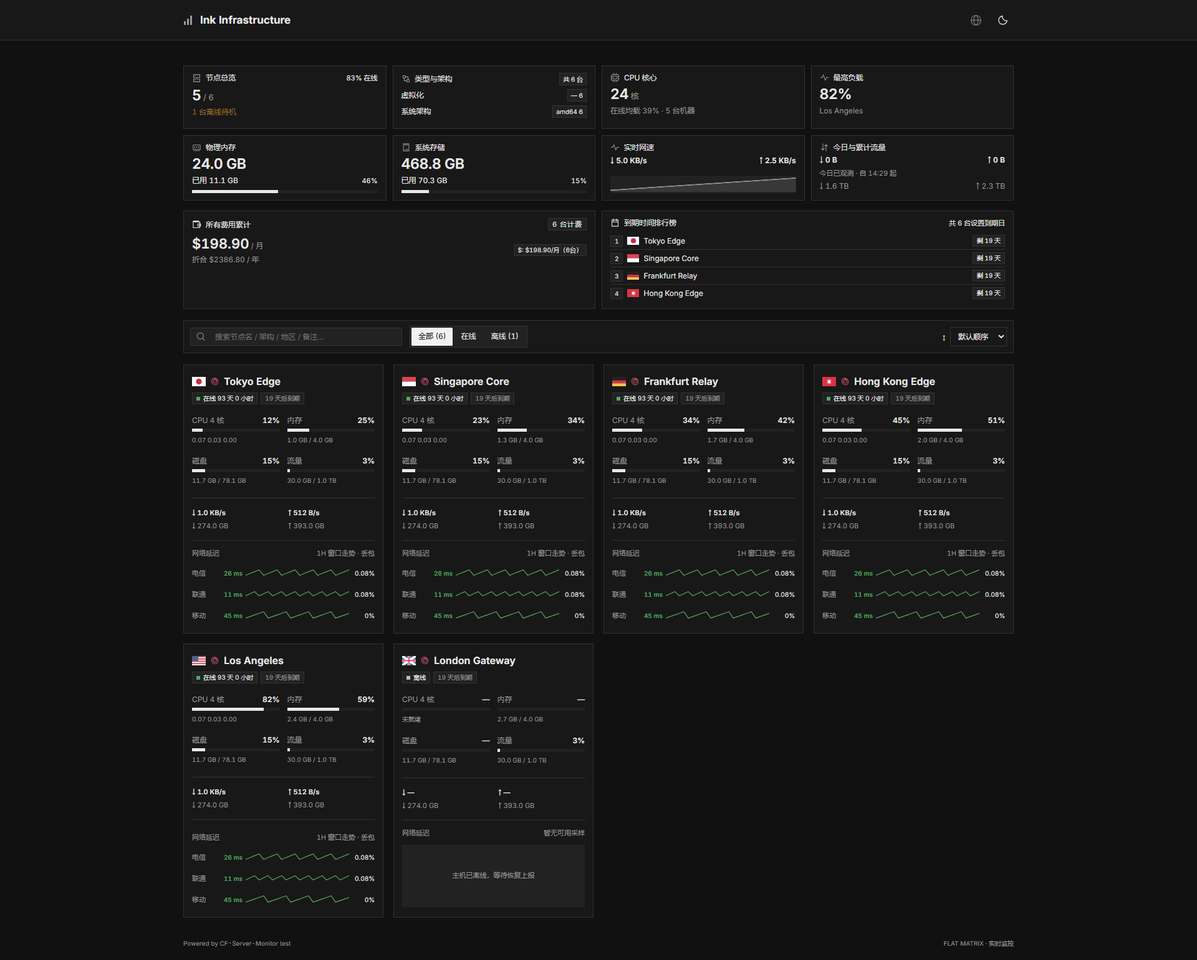
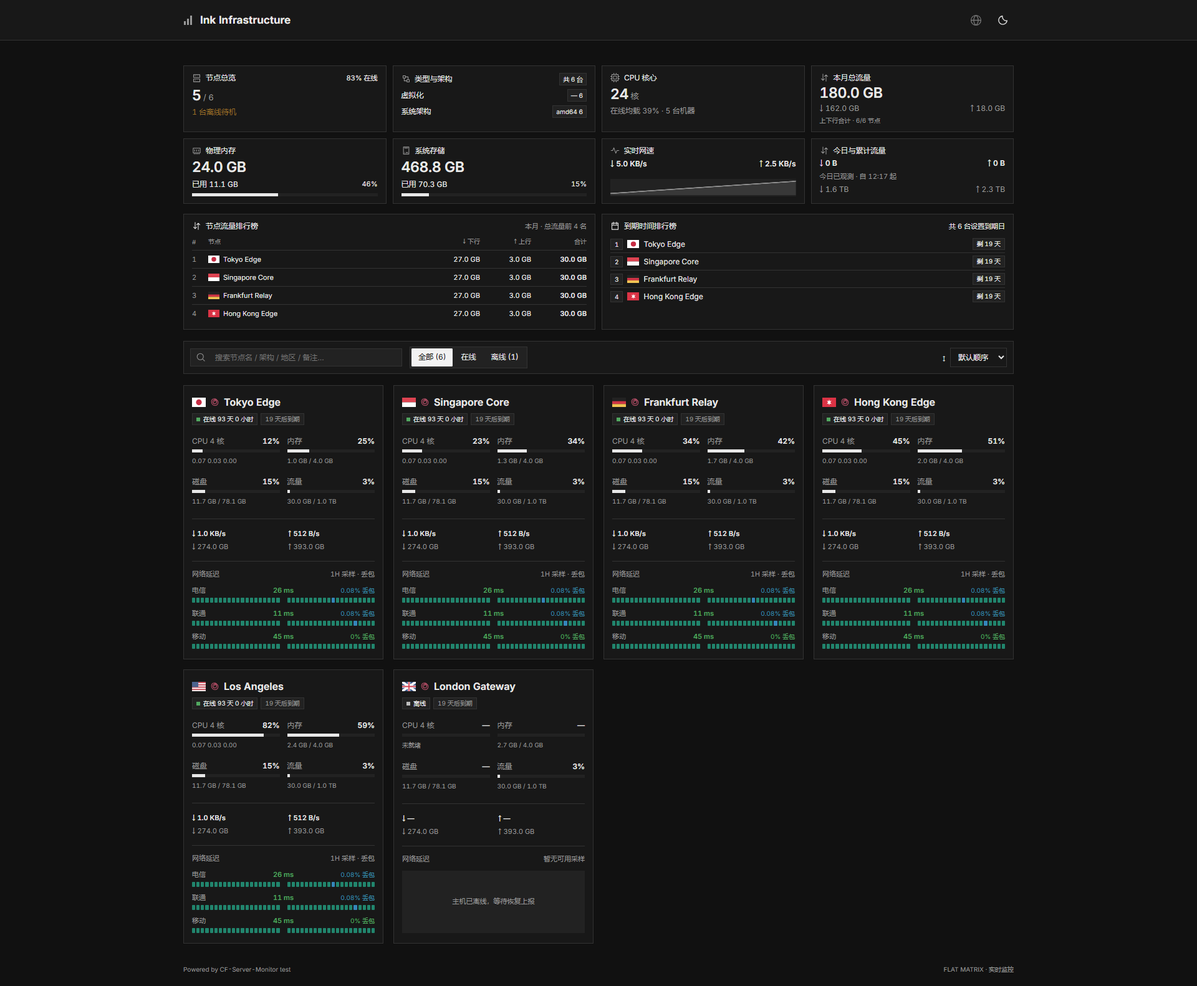
Add monthly traffic ranking and paired probe sample blocks

diff --git a/cfsm/src/matrix/MatrixDashboard.vue b/cfsm/src/matrix/MatrixDashboard.vue
@@ -3,7 +3,7 @@ import { computed, ref, watch } from 'vue'
 import { nodes, country, now, region } from '../composables/useView.js'
 import { state } from '../composables/useMonitor.js'
 import { themeOptions } from '../composables/useTheme.js'
-import { running, memory, size, percentage, ratio, virtualization, monthlyPrice } from './data.js'
+import { running, memory, size, percentage, ratio, virtualization, monthlyTransfers } from './data.js'
 import { dailyTraffic } from '../utils/dailyTraffic.js'
 import { daysLeft } from '../utils/display.js'
 import { collapsed } from './useMatrixUI.js'
@@ -15,17 +15,10 @@ const search = ref(''), status = ref('all'), order = ref('default')
 const onlineNodes = computed(()=>nodes.value.filter(item=>running(item.server,now.value)))
 const sum = (field, active=false) => (active ? onlineNodes.value : nodes.value).reduce((total,item)=>total+(Number(item.server[field])||0),0)
 const types = field => Object.entries(nodes.value.reduce((result,item)=>{const key=field(item.server);result[key]=(result[key]||0)+1;return result},{}))
-const highest = computed(()=>onlineNodes.value.reduce((best,item)=>Number(item.server.cpu)>Number(best?.server.cpu||-1)?item:best,null))
 const transfer = computed(()=>sum('net_in_speed',true)), upload = computed(()=>sum('net_out_speed',true))
 const speeds = ref([]), uploads = ref([])
 watch(()=>[transfer.value,upload.value],([rx,tx])=>{speeds.value=[...speeds.value,rx].slice(-48);uploads.value=[...uploads.value,tx].slice(-48)},{immediate:true})
-const fees = computed(()=>{
-  const grouped={}
-  for(const item of nodes.value) { if(item.site.sysConfig.show_price===false || themeOptions.value.show_price===false)continue; const price=monthlyPrice(item.server); if(price===null)continue;const key=item.server.currency||'未标币种';grouped[key]??={value:0,count:0};grouped[key].value+=price;grouped[key].count++ }
-  return Object.entries(grouped).map(([currency,item])=>({currency,...item}))
-})
-const primaryFee = computed(()=>fees.value.find(item=>item.currency==='CNY'||item.currency==='¥')||fees.value[0])
-const feeSymbol = currency => ({CNY:'¥',USD:'US$',EUR:'€',GBP:'£',HKD:'HK$'})[currency] || currency
+const transfers = computed(()=>monthlyTransfers(nodes.value))
 const expirations = computed(()=>nodes.value.filter(item=>item.site.sysConfig.show_expire!==false && daysLeft(item.server.expire_date,now.value)!==null).sort((a,b)=>daysLeft(a.server.expire_date,now.value)-daysLeft(b.server.expire_date,now.value)))
 const filtered = computed(()=>{
   const needle=search.value.trim().toLowerCase()
@@ -41,12 +34,12 @@ const todayCaption = computed(()=>today.value.partial ? (Number.isFinite(today.v
  <article class="box overview"><div class="spread"><label><Icon name="server"/>节点总览</label><small>{{ percentage(nodes.length ? onlineNodes.length/nodes.length*100 : null) }} 在线</small></div><strong>{{ onlineNodes.length }}<small> / {{ nodes.length }}</small></strong><p :class="nodes.length-onlineNodes.length?'warn':'muted'">{{ nodes.length-onlineNodes.length ? `${nodes.length-onlineNodes.length} 台离线待机`:'全部在线 · 实时守护' }}</p></article>
  <article class="box overview architectures"><div class="spread"><label><Icon name="network"/>类型与架构</label><small class="chip">共 {{ nodes.length }} 台</small></div><div class="spread"><span>虚拟化</span><span><b v-for="[key,value] in types(virtualization)" :key="key" class="chip">{{ key }} {{ value }}</b></span></div><div class="spread"><span>系统架构</span><span><b v-for="[key,value] in types(s=>s.arch||'未知')" :key="key" class="chip">{{ key }} {{ value }}</b></span></div></article>
  <article class="box overview"><label><Icon name="cpu"/>CPU 核心</label><strong>{{ sum('cpu_cores') }}<small> 核</small></strong><p>在线均载 {{ percentage(onlineNodes.length?sum('cpu',true)/onlineNodes.length:null) }} · {{ onlineNodes.length }} 台机器</p></article>
- <article class="box overview"><label><Icon name="pulse"/>最高负载</label><strong>{{ percentage(highest?.server.cpu) }}</strong><p>{{ highest?.server.name || '暂无在线节点' }}</p></article>
+ <article class="box overview month-transfer"><label><Icon name="traffic"/>本月总流量</label><strong>{{ size(transfers.total) }}</strong><div class="spread muted"><span>↓ {{ transfers.count?size(transfers.rx):'—' }}</span><span>↑ {{ transfers.count?size(transfers.tx):'—' }}</span></div><small class="muted">上下行合计 · {{ transfers.count }}/{{ nodes.length }} 节点</small></article>
  <article class="box overview"><label><Icon name="memory"/>物理内存</label><strong>{{ memory(sum('ram_total')) }}</strong><div class="spread"><span>已用 {{ memory(sum('ram_used')) }}</span><small>{{ percentage(ratio(sum('ram_used'),sum('ram_total'))) }}</small></div><div class="track"><i :style="{width:`${ratio(sum('ram_used'),sum('ram_total'))||0}%`}"/></div></article>
  <article class="box overview"><label><Icon name="disk"/>系统存储</label><strong>{{ memory(sum('disk_total')) }}</strong><div class="spread"><span>已用 {{ memory(sum('disk_used')) }}</span><small>{{ percentage(ratio(sum('disk_used'),sum('disk_total'))) }}</small></div><div class="track"><i :style="{width:`${ratio(sum('disk_used'),sum('disk_total'))||0}%`}"/></div></article>
  <article class="box overview overview-speed"><label><Icon name="pulse"/>实时网速</label><div class="spread"><b>↓ {{ size(transfer) }}/s</b><b>↑ {{ size(upload) }}/s</b></div><div class="speed-sparks"><Sparkline :values="speeds" fill/><Sparkline :values="uploads" color="#888"/></div></article>
  <article class="box overview overview-traffic"><label :title="todayCaption"><Icon name="traffic"/>今日与累计流量</label><div class="spread"><b>↓ {{ today.rx }}</b><b>↑ {{ today.tx }}</b></div><p class="muted" :title="todayCaption">{{ todayCaption }}</p><div class="spread muted"><span>↓ {{ size(sum('net_rx')) }}</span><span>↑ {{ size(sum('net_tx')) }}</span></div></article>
 </section>
-<section class="finance-grid"><article class="box fees"><div class="section-heading spread"><label><Icon name="wallet"/>所有费用累计</label><small class="chip">{{ fees.reduce((sum,item)=>sum+item.count,0) }} 台计费</small></div><div class="fee-body"><div><strong>{{ primaryFee ? `${feeSymbol(primaryFee.currency)}${primaryFee.value.toFixed(2)}` : '—' }}<small> / 月</small></strong><p>{{ primaryFee ? `折合 ${feeSymbol(primaryFee.currency)}${(primaryFee.value*12).toFixed(2)} / 年` : '暂无可用计费数据' }}</p></div><div class="fee-currencies"><span v-for="item in fees" :key="item.currency" class="chip">{{ item.currency }}: {{ feeSymbol(item.currency) }}{{ item.value.toFixed(2) }}/月（{{ item.count }}台）</span></div></div><small v-if="fees.length>1" class="muted">按币种分别统计</small></article><article class="box expiry"><div class="section-heading spread"><label><Icon name="calendar"/>到期时间排行榜</label><small>共 {{ expirations.length }} 台设置到期日</small></div><RouterLink v-for="(item,index) in expirations.slice(0,4)" :key="item.server.id" :to="{path:`/server/${item.server.id}`,query:{site:item.siteIndex}}"><span><b class="chip">{{ index+1 }}</b><img v-if="region(item.server.region)" class="flag" :src="`${item.site.base}/flags/${region(item.server.region).toLowerCase()}.svg`" alt="">{{ item.server.name }}</span><small class="chip">剩 {{ daysLeft(item.server.expire_date,now) }} 天</small></RouterLink><p v-if="!expirations.length" class="muted">暂无设置到期日的节点</p></article></section>
+<section class="finance-grid"><article class="box traffic-ranking"><div class="section-heading spread"><label><Icon name="traffic"/>节点流量排行榜</label><small class="muted">本月 · 总流量前 4 名</small></div><div class="traffic-table-head"><span>#</span><span>节点</span><span>↓ 下行</span><span>↑ 上行</span><span>合计</span></div><RouterLink v-for="(item,index) in transfers.ranked.slice(0,4)" :key="`${item.siteIndex}:${item.server.id}`" class="traffic-rank-row" :to="{path:`/server/${item.server.id}`,query:{site:item.siteIndex}}"><span class="muted">{{ index+1 }}</span><span class="rank-node" :title="item.server.name"><img v-if="region(item.server.region)" class="flag" :src="`${item.site.base}/flags/${region(item.server.region).toLowerCase()}.svg`" alt=""><span>{{ item.server.name }}</span></span><span>{{ size(item.rx) }}</span><span>{{ size(item.tx) }}</span><b>{{ size(item.total) }}</b></RouterLink><p v-if="!transfers.count" class="muted rank-empty">暂无本月流量数据</p><small v-else-if="transfers.count<nodes.length" class="muted rank-note">{{ nodes.length-transfers.count }} 个节点未提供完整本月计数</small></article><article class="box expiry"><div class="section-heading spread"><label><Icon name="calendar"/>到期时间排行榜</label><small>共 {{ expirations.length }} 台设置到期日</small></div><RouterLink v-for="(item,index) in expirations.slice(0,4)" :key="item.server.id" :to="{path:`/server/${item.server.id}`,query:{site:item.siteIndex}}"><span><b class="chip">{{ index+1 }}</b><img v-if="region(item.server.region)" class="flag" :src="`${item.site.base}/flags/${region(item.server.region).toLowerCase()}.svg`" alt="">{{ item.server.name }}</span><small class="chip">剩 {{ daysLeft(item.server.expire_date,now) }} 天</small></RouterLink><p v-if="!expirations.length" class="muted">暂无设置到期日的节点</p></article></section>
 <div class="fleet-toolbar box"><label class="search"><Icon name="search"/><input v-model="search" placeholder="搜索节点名 / 架构 / 地区 / 备注…" aria-label="搜索节点"></label><div class="segmented"><button v-for="option in [{key:'all',label:`全部 (${nodes.length})`},{key:'online',label:'在线'},{key:'offline',label:`离线 (${nodes.length-onlineNodes.length})`}]" :key="option.key" :aria-pressed="status===option.key" @click="status=option.key">{{ option.label }}</button></div><button v-if="country" @click="country=''">{{ country }} × 清除地区</button><label class="sort">↕ <select v-model="order" aria-label="排序"><option value="default">默认顺序</option><option value="cpu">CPU 负载</option><option value="memory">内存占用</option><option value="expiry">到期时间</option><option value="name">节点名称</option></select></label></div>
 <section class="matrix-cards"><MatrixCard v-for="item in filtered" :key="`${item.siteIndex}:${item.server.id}`" v-bind="item"/></section><p v-if="!filtered.length" class="box empty">{{ state.loading ? '正在连接探针…' : '暂无匹配节点' }}</p></div></template>

diff --git a/cfsm/tests/browser/monitor.spec.js b/cfsm/tests/browser/monitor.spec.js
@@ -82,7 +82,7 @@ test('resource controls, heatmap, donuts, connection units and history limits',a
 })
 test('latency comparison, matrix, ranking, zero/loss averages and brush do not fetch history',async({page})=>{
  const ctx=await mock(page,{serverData:{loss_ct:null,loss:[{ts:Date.now()-3000,ct:0},{ts:Date.now()-2000,ct:20},{ts:Date.now()-1000,ct:null}]},historyData:[{ping_ct:0,loss_ct:0},{ping_ct:100,loss_ct:2},{ping_ct:null,loss_ct:null},{ping_ct:false,loss_ct:false}]})
- await page.goto('/');await expect(page.locator('.carrier-row[data-probe=ct] .loss-caption')).toHaveText('10%')
+ await page.goto('/');await expect(page.locator('.carrier-row[data-probe=ct] .loss-caption')).toHaveText('10% 丢包')
  await page.locator('.cf-card').click();await page.getByRole('button',{name:'网络延迟',exact:true}).click()
  await expect.poll(()=>count(ctx,'/api/history/all')).toBe(2)
  expect(ctx.calls.filter(c=>c.path==='/api/history/all').at(-1).query).toBe('?id=one&hours=24')
@@ -124,7 +124,7 @@ test('matrix screenshots desktop, latency and mobile without overflow',async({pa
  await expect(page.locator('.map-toggle')).toHaveCount(0)
  await expect(page.locator('.cf-card').first().locator('.node-title>strong .os-icon')).toHaveCount(1)
  await expect(page.locator('.cf-card').first().locator('.node-badges .expiry-chip')).toHaveCount(1)
- await expect(page.locator('.cf-card').first()).toContainText('1H 窗口走势')
+ await expect(page.locator('.cf-card').first()).toContainText('1H 采样')
  await expect(page.locator('.cf-card .node-sub')).toHaveCount(0)
  const cards=await page.locator('.cf-card').evaluateAll(elements=>elements.map(el=>({top:el.getBoundingClientRect().top,width:el.getBoundingClientRect().width})))
  expect(new Set(cards.slice(0,4).map(card=>card.top)).size).toBe(1)
@@ -181,12 +181,12 @@ test('multiple sites keep subscription ids separate and use cross-origin JWT', a
 test('live probes grow the 1H curve and daily observation updates without extra requests',async({page})=>{
  const ctx=await mock(page);await page.goto('/');await expect(page.locator('.cf-card')).toBeVisible();await expect.poll(()=>ctx.sockets.length).toBe(1)
  await expect(page.locator('.overview-traffic')).toContainText('今日已观测')
- const original=await page.locator('.carrier-row[data-probe=ct] .sparkline').innerHTML()
+ const original=await page.locator('.carrier-row[data-probe=ct] .probe-blocks').innerHTML()
  const time=Date.now()
  ctx.sockets[0].ws.send(JSON.stringify({type:'batchUpdate',updates:[{serverId:'one',samples:[{ts:time,data:{ping_ct:240,loss_ct:0,net_rx:server.net_rx+1024,net_tx:server.net_tx+2048}},{ts:time+100,data:{ping_ct:245,loss_ct:2,net_rx:server.net_rx+2048,net_tx:server.net_tx+4096}}]}]}))
- await expect(page.locator('.carrier-row[data-probe=ct] .loss-caption')).toHaveText('0.67%')
+ await expect(page.locator('.carrier-row[data-probe=ct] .loss-caption')).toHaveText('0.67% 丢包')
  await expect(page.locator('.overview-traffic')).toContainText('2.0 KB')
- expect(await page.locator('.carrier-row[data-probe=ct] .sparkline').innerHTML()).not.toBe(original)
+ expect(await page.locator('.carrier-row[data-probe=ct] .probe-blocks').innerHTML()).not.toBe(original)
  expect(count(ctx,'/api/servers')).toBe(1);expect(count(ctx,'/api/history/all')).toBe(0);expect(ctx.pageErrors).toEqual([])
 })
 
@@ -218,4 +218,22 @@ test('globe defaults closed after upgrade and remembers the new explicit toggle'
  await page.getByRole('button',{name:'展开地球',exact:true}).click();await expect(page.locator('.matrix-map')).toHaveCount(1)
  await page.reload();await expect(page.locator('.matrix-map')).toHaveCount(1)
  await page.getByRole('button',{name:'收起地球',exact:true}).click();await page.reload();await expect(page.locator('.cf-card')).toBeVisible();await expect(page.locator('.matrix-map')).toHaveCount(0)
+})
+
+test('monthly traffic leaderboard and paired sample strips update live without new queries',async({page})=>{
+ const ctx=await mock(page,{nodes:6,serverData:{net_rx_monthly:1024**3,net_tx_monthly:2*1024**3,ping_ct:204,loss_ct:5,ping:[{ts:Date.now()-2000,ct:0},{ts:Date.now()-1000,ct:null},{ts:Date.now(),ct:204}],loss:[{ts:Date.now()-2000,ct:0},{ts:Date.now()-1000,ct:20},{ts:Date.now(),ct:0}]}})
+ await page.goto('/');await expect(page.locator('.traffic-rank-row')).toHaveCount(4)
+ await expect(page.locator('.traffic-ranking')).toContainText('节点流量排行榜');await expect(page.locator('.fees')).toHaveCount(0)
+ await expect(page.locator('.month-transfer')).toContainText('18.0 GB')
+ const carrier=page.locator('.cf-card').first().locator('.carrier-row[data-probe=ct]')
+ await expect(carrier.locator('.probe-strip')).toHaveCount(2);await expect(carrier.locator('.probe-strip i')).toHaveCount(40)
+ await expect(carrier.locator('.probe-strip').first().locator('i.bad')).toHaveCount(1)
+ await expect(carrier.locator('.probe-strip').nth(1).locator('i.bad')).toHaveCount(1)
+ const first=await page.locator('.traffic-rank-row').first().innerText();expect(first).toContain('Tokyo Edge')
+ await expect.poll(()=>ctx.sockets.length).toBe(1)
+ ctx.sockets[0].ws.send(JSON.stringify({type:'batchUpdate',updates:[{serverId:'node-1',samples:[{ts:Date.now(),data:{net_rx_monthly:10*1024**3,net_tx_monthly:5*1024**3}}]}]}))
+ await expect(page.locator('.traffic-rank-row').first()).toContainText('Singapore Core');await expect(page.locator('.traffic-rank-row').first()).toContainText('15.0 GB')
+ await expect(page.locator('.month-transfer')).toContainText('30.0 GB')
+ for(const width of [800,390,320]){await page.setViewportSize({width,height:900});expect(await page.evaluate(()=>document.documentElement.scrollWidth<=innerWidth)).toBe(true)}
+ expect(count(ctx,'/api/servers')).toBe(1);expect(count(ctx,'/api/history/all')).toBe(0);expect(ctx.pageErrors).toEqual([])
 })

diff --git a/cfsm/src/matrix/MatrixCard.vue b/cfsm/src/matrix/MatrixCard.vue
@@ -7,7 +7,7 @@ import { cardProbeValue, probeSamples, probeValueText, hourlyProbeServer } from 
 import { now, region } from '../composables/useView.js'
 import { themeOptions } from '../composables/useTheme.js'
 import { memory, size, ratio, percentage, running, uptime } from './data.js'
-import Sparkline from './Sparkline.vue'
+import ProbeBlocks from './ProbeBlocks.vue'
 const props = defineProps({ server: Object, site: Object, siteIndex: Number })
 const router = useRouter(), live = computed(() => running(props.server, now.value)), reported = computed(() => timestamp(props.server.last_updated) > 0)
 const quota = computed(() => traffic(props.server)), days = computed(() => props.site.sysConfig.show_expire !== false ? daysLeft(props.server.expire_date, now.value) : null)
@@ -20,12 +20,16 @@ const measurements = computed(() => [
   { name: '磁盘', value: live.value ? ratio(props.server.disk_used, props.server.disk_total) : null, detail: reported.value ? `${memory(props.server.disk_used)} / ${memory(props.server.disk_total)}` : '未就绪' },
   ...(props.site.sysConfig.show_tf !== false ? [{ name: '流量', value: quota.value.limit ? quota.value.percentage : null, detail: reported.value ? quota.value.detail.replaceAll('iB', 'B') : '未就绪', infinite: !quota.value.limit }] : [])
 ])
+function blockValues(field,key){
+ if(!windows.value)return [{value:props.server[`${field}_${key}`],time:props.server.last_updated}]
+ return (trendServer.value[field]||[]).filter(point=>point&&typeof point==='object').map(point=>({value:point[key],time:timestamp(point.ts??point.timestamp)})).sort((a,b)=>a.time-b.time)
+}
 function open() { router.push({ path: `/server/${props.server.id}`, query: { site: props.siteIndex } }) }
 </script>
 <template><article class="matrix-card cf-card box" :class="{offline: !live}" role="link" tabindex="0" @click="open" @keydown.enter.self="open">
   <div class="node-title"><strong><img v-if="region(server.region)" class="flag" :src="`${site.base}/flags/${region(server.region).toLowerCase()}.svg`" :alt="region(server.region)"><img v-if="osIcon(server.os)" class="os-icon" :src="`${site.base}/os-icons/${osIcon(server.os)}`" :alt="server.os"><span :title="server.name">{{ server.name || server.id }}</span></strong><span class="node-badges"><span class="chip state-chip"><i :class="{up: live}"/>{{ live ? `在线 ${uptime(server, now)}` : reported ? '离线' : '未接入' }}</span><span class="chip expiry-chip" v-if="days !== null">{{ days >= 0 ? `${days} 天后到期` : `已到期 ${-days} 天` }}</span></span></div>
   <div class="card-metrics"><div v-for="meter in measurements" :key="meter.name" class="card-metric"><div><span>{{ meter.name }}</span><b>{{ meter.infinite ? '∞' : percentage(meter.value) }}</b></div><div class="track"><i :style="{width: `${Math.max(0,Math.min(100,Number(meter.value) || 0))}%`}"/></div><small>{{ meter.detail }}</small></div></div>
   <div class="card-network"><span>↓ <b>{{ live ? `${size(server.net_in_speed)}/s` : '—' }}</b></span><span>↑ <b>{{ live ? `${size(server.net_out_speed)}/s` : '—' }}</b></span><span>↓ {{ reported ? size(server.net_rx) : '—' }}</span><span>↑ {{ reported ? size(server.net_tx) : '—' }}</span></div>
-  <section v-if="live && keys.length && themeOptions.show_latency !== false" class="card-probes"><div class="muted spread"><span>网络延迟</span><span>{{ windows ? '1H 窗口走势' : '实时' }} · 丢包</span></div><div v-for="key in keys" :key="key" class="carrier-row" :data-probe="key"><span>{{ probeLabel(site.config,key) }}</span><strong :class="probeTone(cardProbeValue(trendServer,'ping',key,windows))">{{ cardProbeValue(trendServer,'ping',key,windows) === null ? '超时' : probeValueText(cardProbeValue(trendServer,'ping',key,windows)) }}</strong><Sparkline focused :values="windows ? probeSamples(trendServer,'ping',key) : []" :class="probeTone(cardProbeValue(trendServer,'ping',key,windows))"/><span class="loss-caption" :title="windows ? '有效窗口采样的平均丢包率' : '最新丢包率'">{{ probeValueText(cardProbeValue(trendServer,'loss',key,windows),true) }}</span></div></section>
+  <section v-if="live && keys.length && themeOptions.show_latency !== false" class="card-probes"><div class="muted spread"><span>网络延迟</span><span>{{ windows ? '1H 采样' : '实时' }} · 丢包</span></div><div v-for="key in keys" :key="key" class="carrier-row" :data-probe="key"><div class="carrier-meta"><span>{{ probeLabel(site.config,key) }}</span><strong :class="probeTone(cardProbeValue(trendServer,'ping',key,windows))">{{ cardProbeValue(trendServer,'ping',key,windows) === null ? '超时' : probeValueText(cardProbeValue(trendServer,'ping',key,windows)) }}</strong><span class="loss-caption" :class="probeTone(cardProbeValue(trendServer,'loss',key,windows),true)" :title="windows ? '有效窗口采样的平均丢包率' : '最新丢包率'">{{ probeValueText(cardProbeValue(trendServer,'loss',key,windows),true) }} 丢包</span></div><div class="probe-blocks"><ProbeBlocks :values="blockValues('ping',key)" :label="`${probeLabel(site.config,key)}延迟采样`"/><ProbeBlocks :values="blockValues('loss',key)" :label="`${probeLabel(site.config,key)}丢包采样`" loss/></div></div></section>
   <section v-else class="card-unavailable"><div class="muted spread"><span>{{ reported ? '网络延迟' : '接入状态' }}</span><span>{{ reported ? '暂无可用采样' : '配置指引' }}</span></div><p>{{ reported ? live ? '尚无网络延迟数据' : '主机已离线，等待恢复上报' : '主机尚未接入 · 请在后台获取命令并在主机执行' }}</p></section>
 </article></template>

diff --git a/cfsm/src/matrix/matrix.css b/cfsm/src/matrix/matrix.css
@@ -43,3 +43,11 @@
 
 /* Facts follow their content height; keep all four desktop panels aligned. */
 .fact-panel{min-height:0;padding:12px 13px}.fact-panel h3{margin-bottom:6px}.fact-panel dl>div{padding:8px 0}.fact-panel dl>div:last-child{padding-bottom:0}.fact-panel dl>div.capacity-fact{padding:5px 0}.capacity-fact .spread{margin-bottom:5px}
+
+/* Paired latency/loss sample strips, with no repeated or invented samples. */
+.card-probes .carrier-row{display:block;margin-top:10px}.carrier-meta{display:grid;grid-template-columns:minmax(0,1fr) auto minmax(0,1fr);align-items:center;gap:7px;margin-bottom:5px;font-size:11px}.carrier-meta>span:first-child{color:var(--muted);white-space:nowrap;overflow:hidden;text-overflow:ellipsis}.carrier-meta strong{font-size:11px;text-align:center}.carrier-meta .loss-caption{text-align:right;font-size:10px}.probe-blocks{display:grid;grid-template-columns:1fr 1fr;gap:12px}.probe-strip{display:grid;grid-template-columns:repeat(20,minmax(0,1fr));gap:2px;min-width:0}.probe-strip i{display:block;height:8px;border-radius:1px;background:var(--border)}.probe-strip i.good{background:#21856d}.probe-strip i.info{background:#3486ba}.probe-strip i.warn{background:#bd932a}.probe-strip i.bad{background:#c34f5d}.probe-strip i.absent{background:var(--border)}
+.traffic-ranking{padding:11px 13px;min-height:140px}.traffic-table-head,.traffic-rank-row{display:grid;grid-template-columns:19px minmax(60px,1fr) 75px 75px 82px;align-items:center;gap:7px;font-size:11px}.traffic-table-head{padding:3px 0 7px;color:var(--muted);font-size:10px}.traffic-rank-row{padding:7px 0;border-top:1px solid var(--border)}.traffic-table-head>span:nth-child(n+3),.traffic-rank-row>span:nth-child(n+3),.traffic-rank-row>b{text-align:right;white-space:nowrap}.rank-node{display:flex;align-items:center;gap:6px;min-width:0}.rank-node>span{overflow:hidden;text-overflow:ellipsis;white-space:nowrap}.rank-node .flag{width:18px;height:12px}.rank-note{display:block;margin-top:6px;font-size:10px}.rank-empty{padding:18px 0}.month-transfer{gap:4px}.month-transfer>small{font-size:10px}
+@media(max-width:600px){.traffic-table-head,.traffic-rank-row{grid-template-columns:16px minmax(55px,1fr) 60px 60px 66px;gap:4px;font-size:10px}.traffic-table-head{font-size:9px}.rank-node{gap:4px}.rank-node .flag{width:15px;height:10px}.carrier-meta strong{font-size:12px}.carrier-meta .loss-caption{font-size:11px}.probe-strip i{height:9px}}
+
+@media(max-width:900px){.finance-grid{grid-template-columns:1fr}}
+@media(max-width:600px){.traffic-table-head,.traffic-rank-row{grid-template-columns:14px minmax(45px,1fr) repeat(3,minmax(48px,1fr))}}

diff --git a/cfsm/tests/matrix.test.js b/cfsm/tests/matrix.test.js
@@ -1,6 +1,6 @@
 import { test } from 'node:test'
 import assert from 'node:assert/strict'
-import { average, maximum, minimum, monthlyPrice, counterDifference, activityBuckets, running, ratio, trafficComposition } from '../src/matrix/data.js'
+import { average, maximum, minimum, monthlyPrice, counterDifference, activityBuckets, running, ratio, trafficComposition, monthlyTransfers } from '../src/matrix/data.js'
 test('matrix statistics preserve zero, exclude absent values and never sum different currencies',()=>{
  assert.equal(average([0,2,false,null,undefined]),1)
  assert.equal(maximum([0,false,null]),0);assert.equal(minimum([0,10]),0)
@@ -35,4 +35,11 @@ test('traffic ring prefers real window counters, otherwise labels monthly or lif
  const zero=trafficComposition([],{net_rx_monthly:0,net_tx_monthly:0})
  assert.equal(zero.source,'monthly');assert.equal(zero.rx,0);assert.equal(zero.label,'暂无流量')
  assert.equal(trafficComposition([],{}).source,'missing');assert.equal(trafficComposition([],{}).rx,null)
+})
+
+test('monthly ranking sums both directions, includes real zeros and excludes partial or missing month counters',()=>{
+ const nodes=[{server:{id:'a',net_rx_monthly:100,net_tx_monthly:200,traffic_calc_type:'max'}},{server:{id:'b',net_rx_monthly:500,net_tx_monthly:50}},{server:{id:'c',net_rx:999999,net_tx:999999}},{server:{id:'d',net_rx_monthly:0,net_tx_monthly:0}},{server:{id:'e',net_rx_monthly:10}}]
+ const result=monthlyTransfers(nodes)
+ assert.deepEqual(result.ranked.map(item=>item.server.id),['b','a','d']);assert.equal(result.total,850);assert.equal(result.rx,600);assert.equal(result.tx,250);assert.equal(result.count,3)
+ assert.equal(monthlyTransfers([]).total,null)
 })

diff --git a/cfsm/tests/probes.test.js b/cfsm/tests/probes.test.js
@@ -1,3 +1,4 @@
+import { selectProbeBlocks } from '../src/utils/probes.js'
 import { test } from 'node:test'
 import assert from 'node:assert/strict'
 import { cardProbeValue, probeAverage, probeValueText, probeSamples, historyPercent, diskIo, hourlyProbeServer } from '../src/utils/probes.js'
@@ -40,4 +41,14 @@ test('CF resource histories use percentages and parse both disk IO payload forma
   assert.equal(historyPercent({ ram_total: 100 }, 'ram_used', 'ram_total'), undefined)
   assert.deepEqual(diskIo('{"read_bps":0,"write_bps":1024}'), { read_bps: 0, write_bps: 1024 })
   assert.deepEqual(diskIo('invalid'), {})
+})
+
+test('paired probe blocks keep missing/timeout/zero distinct and preserve measured spikes without repeating samples',()=>{
+ const points=[{time:1,value:0},{time:2,value:null},{time:3,value:false},{time:4,value:undefined},{time:5,value:20}]
+ const slots=selectProbeBlocks(points)
+ assert.equal(slots.length,20);assert.equal(slots.filter(p=>p.missing).length,17);assert.deepEqual(slots.slice(-3).map(p=>p.value),[0,null,20])
+ const dense=Array.from({length:100},(_,i)=>({time:i+1,value:i===22?8:0}))
+ const loss=selectProbeBlocks(dense,true)
+ assert.equal(loss.length,20);assert.ok(loss.some(point=>point.value===8));assert.equal(new Set(loss.map(p=>p.time)).size,20);assert.ok(loss.every(point=>dense.includes(point)))
+ dense[33]={time:34,value:null};assert.ok(selectProbeBlocks(dense).some(point=>point.value===null))
 })

diff --git a/cfsm/src/utils/probes.js b/cfsm/src/utils/probes.js
@@ -6,6 +6,16 @@ export function probeNumber(value) {
   const number = Number(value)
   return Number.isFinite(number) && number >= 0 ? number : null
 }
+
+export function selectProbeBlocks(points, loss = false, count = 20) {
+  const actual = points.filter(point => point.value !== undefined && point.value !== false && point.value !== 'false')
+  const selected = actual.length <= count ? actual : Array.from({ length: count }, (_, index) => {
+    const group = actual.slice(Math.floor(index * actual.length / count), Math.floor((index + 1) * actual.length / count))
+    if (!loss && group.some(point => point.value === null)) return group.find(point => point.value === null)
+    return group.reduce((worst, point) => probeNumber(point.value) !== null && (probeNumber(worst.value) === null || Number(point.value) >= Number(worst.value)) ? point : worst, group[0])
+  })
+  return [...Array.from({ length: count - selected.length }, () => ({ missing: true })), ...selected]
+}
 export function probeAverage(values) {
   const valid = values.map(probeNumber).filter(value => value !== null)
   return valid.length ? valid.reduce((sum, value) => sum + value, 0) / valid.length : null

diff --git a/cfsm/src/matrix/ProbeBlocks.vue b/cfsm/src/matrix/ProbeBlocks.vue
@@ -1,0 +1,15 @@
+<script setup>
+import { computed } from 'vue'
+import { probeNumber, probeValueText, selectProbeBlocks } from '../utils/probes.js'
+import { probeTone } from '../utils/display.js'
+import { timestamp } from '../utils/metrics.js'
+const props=defineProps({values:{type:Array,default:()=>[]},label:String,loss:Boolean})
+const blocks=computed(()=>selectProbeBlocks(props.values,props.loss))
+function tone(point){return point.missing?'absent':probeTone(point.value,props.loss)}
+function title(point){
+ if(point.missing)return '暂无采样'
+ const time=timestamp(point.time),value=point.value===null?(props.loss?'未返回丢包率':'超时'):probeNumber(point.value)===null?'无采样':probeValueText(point.value,props.loss)
+ return `${value}${time?' · '+new Date(time).toLocaleTimeString('zh-CN',{hour12:false}):''}`
+}
+</script>
+<template><span class="probe-strip" role="img" :aria-label="label"><i v-for="(point,index) in blocks" :key="index" :class="tone(point)" :title="title(point)"/></span></template>

diff --git a/cfsm/src/matrix/data.js b/cfsm/src/matrix/data.js
@@ -51,3 +51,8 @@ export function trafficComposition(rows, server) {
   const total=rx===null||tx===null?null:rx+tx
   return { source,title,rx,tx,value:total>0?rx/total*100:null,label:total===null?'暂无流量数据':total===0?'暂无流量':'下行占比' }
 }
+
+export function monthlyTransfers(items) {
+ const ranked=items.map((item,index)=>{const rx=number(item.server.net_rx_monthly),tx=number(item.server.net_tx_monthly);return {...item,index,rx,tx,total:rx===null||tx===null?null:rx+tx}}).filter(item=>item.total!==null).sort((a,b)=>b.total-a.total||a.index-b.index)
+ return {ranked,count:ranked.length,rx:ranked.reduce((sum,item)=>sum+item.rx,0),tx:ranked.reduce((sum,item)=>sum+item.tx,0),total:ranked.length?ranked.reduce((sum,item)=>sum+item.total,0):null}
+}

diff --git a/cfsm/docs/detail-data-audit.md b/cfsm/docs/detail-data-audit.md
@@ -20,6 +20,6 @@
 
 图表断线阈值以初始历史采样间隔为基准，避免密集 WS 点把较稀疏的历史错误断开。多日坐标附日期，CPU、内存、网速、磁盘及三网悬浮值逐时间戳对照实际公开 API。真实站点 Windows/Linux 节点均通过；资源 6H 和延迟 24H 各一条历史请求，未增加轮询或每图请求。截图和原始真实节点数据未入库。
 
-28 项单元测试和 18 项浏览器测试通过，包括 MiB/字节换算、零值/缺失、扁平磁盘指标、批内峰值、长会话历史范围、时间轴、四种公开/验证模拟组合、移动端溢出和请求数量。未提供的指标只能确认展示为缺失，不能证明机器端采集本身准确；历史采样间未上报的瞬时波动无法还原。
+30 项单元测试和 19 项浏览器测试通过，包括 MiB/字节换算、零值/缺失、扁平磁盘指标、批内峰值、长会话历史范围、时间轴、四种公开/验证模拟组合、移动端溢出和请求数量。未提供的指标只能确认展示为缺失，不能证明机器端采集本身准确；历史采样间未上报的瞬时波动无法还原。
 
 圆环百分比表示下行占比，与左侧黑色下行图例对应。没有新增 API 请求，不按网速估算流量。地球升级默认收起，新版设置键记录用户后续明确选择。
